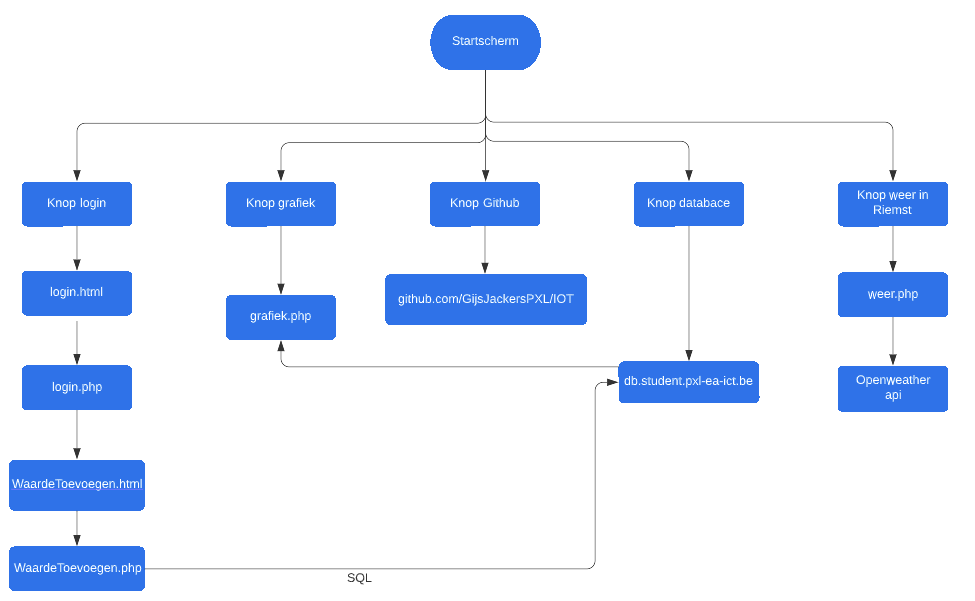
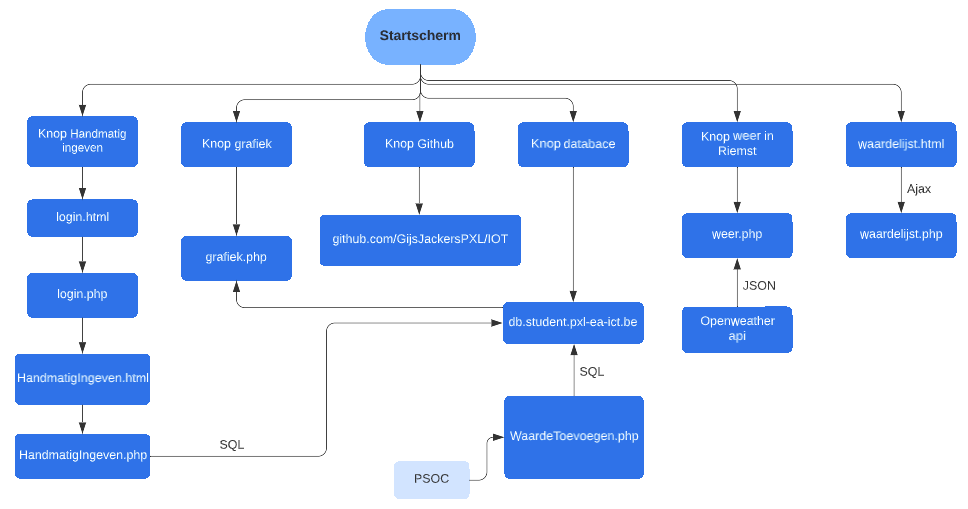
update

Changed region(s): [[0.186, 0.0, 0.9917, 1.0], [0.0, 0.2063, 0.155, 1.0], [0.2169, 0.8546, 0.2479, 0.8841]]

diff --git a/startscherm.html b/startscherm.html
@@ -29,10 +29,11 @@
         <br>
         <h3>Kies waar je naartoe wilt</h3>   
              
-        <a href="https://11901795.pxl-ea-ict.be/login.html"> LOGIN </a>         &nbsp
+        <a href="https://11901795.pxl-ea-ict.be/login.html"> HANDMATIG INGEVEN </a>         &nbsp
         <a href="https://11901795.pxl-ea-ict.be/grafiek.html"> GRAFIEK </a>     &nbsp
         <a href="https://github.com/GijsJackersPXL/IOT"> GITHUB </a>            &nbsp
         <a href="https://db.student.pxl-ea-ict.be/?username=student_11901795&db=student_11901795&select=GegevensIOT"> DATABASE </a> &nbsp
-        <a href="https://11901795.pxl-ea-ict.be/weer.php"> WEER IN RIEMST </a>
+        <a href="https://11901795.pxl-ea-ict.be/weer.php"> WEER IN RIEMST </a>&nbsp
+        <a href="https://11901795.pxl-ea-ict.be/waardelijst.html"> LIJSTWEERGAVE  </a>&nbsp
     </body>     
 </html>

diff --git a/HandmatigIngeven/HandmatigIngeven.html b/HandmatigIngeven/HandmatigIngeven.html
@@ -7,6 +7,7 @@
 		<br>
 		Waarde:<br>
 		<input type="text" name="waarde"><br><br>
+		SensorID:<br>
 		<input type="text" name="SensorID"><br><br>
 		<input type="submit">
 	</form>

diff --git a/DataVerzamelen/main.c b/DataVerzamelen/main.c
@@ -1,0 +1,178 @@
+#include "main.h"
+#include "DHT_task.h"
+#include "httpClient.h"
+
+void interruptTemp(void *callback_arg, cyhal_timer_event_t event)
+{
+    //een interrupt bij button press die de HTTPSend functie laat lopen.
+    xTaskResumeFromISR(httpSend_task_handle);
+}
+
+void softwareTimer(void *arg)
+{
+    for (;;)
+    {
+        vTaskDelay(pdMS_TO_TICKS(1800000));
+        sensor_type = 1;
+        vTaskResume(httpSend_task_handle);
+        vTaskDelay(pdMS_TO_TICKS(1800000));
+        sensor_type = 2;
+        vTaskResume(httpSend_task_handle);
+    }
+}
+
+void httpSend(void *pvParameters)
+{
+    cy_rslt_t result;
+    cy_awsport_server_info_t serverInfo;
+    (void)memset(&serverInfo, 0, sizeof(serverInfo));
+    serverInfo.host_name = SERVERHOSTNAME;
+    serverInfo.port = SERVERPORT;
+
+    cy_http_disconnect_callback_t disconnectCallback = (void *)disconnect_callback;
+    cy_http_client_t clientHandle;
+
+    uint8_t buffer[BUFFERSIZE];
+    cy_http_client_request_header_t request;
+    request.buffer = buffer;
+    request.buffer_len = BUFFERSIZE;
+    request.method = CY_HTTP_CLIENT_METHOD_POST;
+    request.range_start = -1;
+    request.range_end = -1;
+    request.resource_path = TESTPATH;
+
+    uint8_t num_headers = 1;
+    cy_http_client_header_t header[num_headers];
+    header[0].field = "Content-Type";
+    header[0].field_len = strlen("Content-Type");
+    header[0].value = "application/x-www-form-urlencoded";
+    header[0].value_len = strlen("application/x-www-form-urlencoded");
+
+    result = cy_http_client_init();
+    if (result != CY_RSLT_SUCCESS)
+        printf("HTTP Client Library Initialization Failed!\n\r");
+
+    result = cy_http_client_create(NULL, &serverInfo, disconnectCallback, NULL, &clientHandle);
+    if (result != CY_RSLT_SUCCESS)
+        printf("HTTP Client Creation Failed!\n\r");
+
+    for (;;)
+    {
+        //suspending task and waiting for interrupt to resume
+        vTaskSuspend(httpSend_task_handle);
+        //reading sensorValues
+        //die hier uw sensor uit lezen logica, roep gewoon functie op.
+        result = cy_http_client_write_header(clientHandle, &request, header, num_headers);
+        if (result != CY_RSLT_SUCCESS)
+            printf("HTTP Client Header Write Failed!\n\r");
+
+        result = cy_http_client_connect(clientHandle, SENDRECEIVETIMEOUT, SENDRECEIVETIMEOUT);
+        if (result != CY_RSLT_SUCCESS)
+            printf("HTTP Client Connection Failed!\n\r");
+        else
+            connected = true;
+
+        char front[30] = "value=";
+
+        strcat(front, value);
+        strcat(front, end);
+        strcat(front, "1");
+
+        printf("request body: %s\r\n", front);
+        sensor_type = 0;
+
+        if (connected)
+        {
+            result = cy_http_client_send(clientHandle, &request, front, strlen(front), &response);
+            if (result != CY_RSLT_SUCCESS)
+                printf("HTTP Client Send Failed!\n\r");
+            else
+                printf("HTTP Client Send succes\n\r");
+        }
+
+        result = cy_http_client_disconnect(clientHandle);
+        if (result != CY_RSLT_SUCCESS)
+            printf("HTTP Client disconnect Failed!\n\r");
+    }
+}
+
+void wifi_connect(void *arg)
+{
+    cy_rslt_t result;
+    cy_wcm_connect_params_t connect_param;
+    cy_wcm_ip_address_t ip_address;
+    uint32_t retry_count;
+
+    /* Configure the interface as a Wi-Fi STA (i.e. Client). */
+    cy_wcm_config_t config = {.interface = CY_WCM_INTERFACE_TYPE_STA};
+
+    /* Initialize the Wi-Fi Connection Manager and return if the operation fails. */
+    result = cy_wcm_init(&config);
+    if (result != CY_RSLT_SUCCESS)
+        printf("\r\nWi-Fi Connection Manager initialization failed\r\n");
+    else
+        printf("\n\rWi-Fi Connection Manager initialized.\n\r\r");
+
+    /* Configure the connection parameters for the Wi-Fi interface. */
+    memset(&connect_param, 0, sizeof(cy_wcm_connect_params_t));
+    memcpy(connect_param.ap_credentials.SSID, WIFI_SSID, sizeof(WIFI_SSID));
+    memcpy(connect_param.ap_credentials.password, WIFI_PASSWORD, sizeof(WIFI_PASSWORD));
+    connect_param.ap_credentials.security = WIFI_SECURITY;
+
+    /* Connect to the Wi-Fi AP. */
+    for (retry_count = 0; retry_count < MAX_WIFI_CONN_RETRIES; retry_count++)
+    {
+        printf("Connecting to Wi-Fi AP '%s'\n\r\r", connect_param.ap_credentials.SSID);
+        result = cy_wcm_connect_ap(&connect_param, &ip_address);
+
+        if (result != CY_RSLT_SUCCESS)
+            continue;
+        printf("Successfully connected to Wi-Fi network '%s'\n\r\r", connect_param.ap_credentials.SSID);
+        if (ip_address.version == CY_WCM_IP_VER_V4)
+            printf("My ipv4: %d.%d.%d.%d\n\r\r", (uint8_t)ip_address.ip.v4, (uint8_t)(ip_address.ip.v4 >> 8), (uint8_t)(ip_address.ip.v4 >> 16), (uint8_t)(ip_address.ip.v4 >> 24));
+        else
+            printf("My ipv6: %0X.%0X.%0X.%0X\n\r\r", (unsigned int)ip_address.ip.v6[0], (unsigned int)ip_address.ip.v6[1], (unsigned int)ip_address.ip.v6[2], (unsigned int)ip_address.ip.v6[3]);
+        break;
+    }
+    if (result != CY_RSLT_SUCCESS)
+    {
+        printf("\r\nWifi connection failed.\r\n");
+        CY_ASSERT(0);
+    }
+    else
+    {
+        while (1)
+        {
+            if (cy_wcm_is_connected_to_ap() != true)
+            {
+                cyhal_gpio_write(CYBSP_LED8, CYBSP_LED_STATE_ON);
+                break;
+            }
+            vTaskDelay(10000);
+        }
+    }
+}
+
+int main(void)
+{
+    cybsp_init();
+
+    cy_retarget_io_init(CYBSP_DEBUG_UART_TX, CYBSP_DEBUG_UART_RX, CY_RETARGET_IO_BAUDRATE);
+    cyhal_gpio_init(CYBSP_LED8, CYHAL_GPIO_DIR_OUTPUT, CYHAL_GPIO_DRIVE_STRONG, CYBSP_LED_STATE_OFF);
+    cyhal_gpio_init(CYBSP_LED_RGB_BLUE, CYHAL_GPIO_DIR_OUTPUT, CYHAL_GPIO_DRIVE_STRONG, CYBSP_LED_STATE_OFF);
+    cyhal_gpio_init(CYBSP_SW2, CYHAL_GPIO_DIR_INPUT, CYHAL_GPIO_DRIVE_NONE, false);
+
+    cyhal_gpio_register_callback(CYBSP_SW2, interrupt, NULL);
+    cyhal_gpio_enable_event(CYBSP_SW2, CYHAL_GPIO_IRQ_FALL, 5, true);
+
+    xTaskCreate(wifi_connect, "wifi_connect_task", 1024, NULL, 2, NULL);
+    xTaskCreate(httpSend, "SendHttp_task", HTTP_CLIENT_TASK_STACK_SIZE, NULL, 5, &httpSend_task_handle);
+    xTaskCreate(softwareTimer, "softwareTimer_task", 1024, NULL, 4, NULL);
+
+    vTaskStartScheduler();
+}
+
+void disconnect_callback(void *arg)
+{
+    printf("Disconnected from HTTP Server\n\r");
+}

diff --git a/rss/rss.php b/rss/rss.php
@@ -1,0 +1,41 @@
+<?php
+$servername = "localhost";
+$username = "student_11901795";
+$password = "oBrGCikWH85f";
+$dbname ="student_11901795";
+
+//create connection
+$conn = new mysqli($servername, $username, $password, $dbname);
+if ($conn -> connect_error){
+    die("connection failed: " . $conn->connect-error);
+}
+
+$sql = "SELECT GegevensID, SensorID, WaardeSensor, DatumUpload FROM IOT_GEGEVENS limit 10"; 
+$query = mysqli_query($conn,$sql);
+
+header("Content-type: text/xml"); 
+
+echo "<?xml version='1.0' encoding='UTF-8'?>
+<rss version='2.0'>
+<channel>
+<Nummer>Volgnummer van het item</Nummer>
+<SensorID>De id van de sensor</SensorID>
+<Waarde>Waarde van de sensor</Waarde>
+<Datum>Datum van de upload </Datum>"; 
+
+while($row = mysqli_fetch_array($query))
+{
+    $GegevensID=$row['GegevensID']; 
+	$SensorID=$row['SensorID']; 
+	$Waarde=$row['WaardeSensor']; 
+	$Datum=$row['DatumUpload']; 
+
+	echo " <item>
+            <Nummer>$GegevensID</Nummer>
+            <SensorID>$SensorID</SensorID>
+            <Waarde>$Waarde</Waarde>
+            <Datum>$Datum</Datum>
+	     </item>"; 
+} 
+echo "</channel></rss>"; 
+?>

diff --git a/DataVerzamelen/httpClient.h b/DataVerzamelen/httpClient.h
@@ -1,0 +1,28 @@
+#ifndef HTTP_H
+#define HTTP_H
+#include "main.h"
+
+#define HTTP_CLIENT_TASK_STACK_SIZE (10 * 1024)
+
+TaskHandle_t httpSend_task_handle;
+cy_http_client_response_t response;
+
+void disconnect_callback(void *arg);
+
+char front[25] = "value=";
+char value[6];
+char end[] = "&sensor_id=";
+
+int sensor_type = 0;
+
+bool connected;
+
+#define REQUEST_BODY "value=71&sensor_id=2"
+#define REQUEST_BODY_LENGTH (sizeof(REQUEST_BODY) - 1)
+#define BUFFERSIZE (2048 * 2)
+#define TESTPATH "/IOT/DataVerzamelen/WaardeToevoegen.php"
+#define SERVERHOSTNAME "11901795.pxl-ea-ict.be"
+#define SERVERPORT (80)
+#define SENDRECEIVETIMEOUT (5000)
+
+#endif

diff --git a/DataVerzamelen/main.h b/DataVerzamelen/main.h
@@ -1,0 +1,33 @@
+#ifndef MAIN_H
+#define MAIN_H
+
+#include "cy_pdl.h"
+#include "cyhal.h"
+#include "cybsp.h"
+#include "wifi_config.h"
+#include "FreeRTOS.h"
+#include "task.h"
+#include "queue.h"
+#include "cy_retarget_io.h"
+#include "cy_wcm.h"
+#include "cy_secure_sockets.h"
+#include "cy_http_client_api.h"
+#include <math.h>
+#include <stdio.h>
+#include <string.h>
+
+#define DATA_PIN P13_0
+
+/* Error Codes */
+#define SUCCESS 0x00
+#define DHT_CONNECTION_ERROR 0x01
+#define DHT_INCORRECT_VALUE 0x02
+
+struct readings
+{
+    float vochtigheid;
+    float temperatuur;
+    uint8 result_code;
+};
+
+#endif

diff --git a/DataVerzamelen/WaardeToevoegen.php b/DataVerzamelen/WaardeToevoegen.php
@@ -10,8 +10,8 @@
         die("connection failed: " . $conn->connect-error);
     }
 
-    $waarde = $_POST['waarde'];
-    $sensorID = $_POST['SensorID'];
+    $waarde = $_GET['waarde'];
+    $sensorID = $_GET['SensorID'];
     
     //input inlezen
     if ($waarde != '' && $sensorID != ''){ 
@@ -26,6 +26,6 @@
     }else{
         echo "Fout!!! \n Er klopt iets niet...";
     }
-        
+
     $conn->close();
-    ?>
+?>

diff --git a/Login/login.php b/Login/login.php
@@ -5,7 +5,7 @@ $wachtwoord = $_POST["password"];
 
 if($naam == "Gijs" && $wachtwoord == "admin")
 {
-	header("Location: WaardeToevoegen.html");
+	header("Location: HandmatigIngeven.html");
 	exit();
 }
 else

diff --git a/README.md b/README.md
@@ -1,6 +1,64 @@
 # IOT
 
+#### VRAAG 1 Geef de link naar de GitHub waar de code staat van de standalone embedded devices of een simulatie programma ervoor
+- 
+	
+#### VRAAG 2 (1/5) Geef de link waarmee je manueel gegevens kunt toevoegen en toon aan dat je een week aan gegevens hebt
+
+Manueel gegevens toevoegen: 
+- [HandmatigIngeven.html](https://11901795.pxl-ea-ict.be/HandmatigIngeven.html )
+
+Week aan data:
+- [grafiek.php](https://11901795.pxl-ea-ict.be/grafiek.php) 
+
+#### VRAAG 3 (4/5) Geef de SQL code van de databasestuctuur met minstens 2 tabellen
+SQL code van de **databasestuctuur.txt**
+
+#### VRAAG 4 (LIJN IS OPGELOST(4/5) 
+Lijn opgelost:heavy_check_mark:
+
+Link naar de grafiek
+[grafiek.php](https://11901795.pxl-ea-ict.be/grafiek.php)  
+
+#### VRAAG 5 (5/5) Geef enkel het stukje code dat zorgt dat je graffieklijnen kunt togglen.
+code graffieklijnen togglen.txt
+
+#### VRAAG 6 (5/5) Beschrijf hoe je kan inzoomen op de graffiek
+Ga met je muis op de waardes in de tabel staan en klik & sleep tot waar je wilt vergroten.
+
+#### VRAAG 7 Geef een link waar een AJAX call naartoe wijst
+[grafiek.html](https://11901795.pxl-ea-ict.be/grafiek.html)  Het laten zien/verbergen van het weerbericht (regel 14-29).
+
+Of 
+
+[waardelijst.php](https://11901795.pxl-ea-ict.be/waardelijst.php)
+	
+#### VRAAG 8 Geef de link naar de dynamische RSS feed
+[rss.php](https://11901795.pxl-ea-ict.be/rss.php)
+
+#### VRAAG 9 Geef de link waar de JSON gegevens te vinden zijn
+[weer.php](https://11901795.pxl-ea-ict.be/weer.php) 
+
+#### VRAAG 10 Geef de link naar de GitHub Readme met flowchart
+[flowchart.png](https://github.com/GijsJackersPXL/IOT/blob/main/flowchart.png)
+
+#### VRAAG 11 (5/5) Geef de link naar de overzicht van alle commits voor dit project
+Was vorige keer al inorde
+[commits](https://github.com/GijsJackersPXL/IOT/commits/main)
+
+#### VRAAG 12 Geef de link naar welke API je gebruikt en de link waar ze geïntegreerd is.
+Link  data van openweathermap API: [openweathermap.org](https://api.openweathermap.org/data/2.5/weather?q=Tessenderlo&appid=b88e8a4d3b3a06798583071cab85454c&units=metric) 
+		
+Gebruikt in: [weer.php](https://11901795.pxl-ea-ict.be/weer.php)
+
+#### VRAAG 13(5/40) Geef voor elk deel dat je extra gedaan hebt een link en paar woorden uitleg.
+
+<br><br>
+
+#### Enkele nuttige linken: 
+
 - https://11901795.pxl-ea-ict.be/
 - https://db.student.pxl-ea-ict.be/
 - https://11901795.pxl-ea-ict.be/startscherm.html
 - https://lucid.app/lucidchart/aec6f978-6bf7-44f9-baf2-741b8ae68324/edit?invitationId=inv_679e22d1-e5c6-4897-8f6a-62feaac489fc
+
